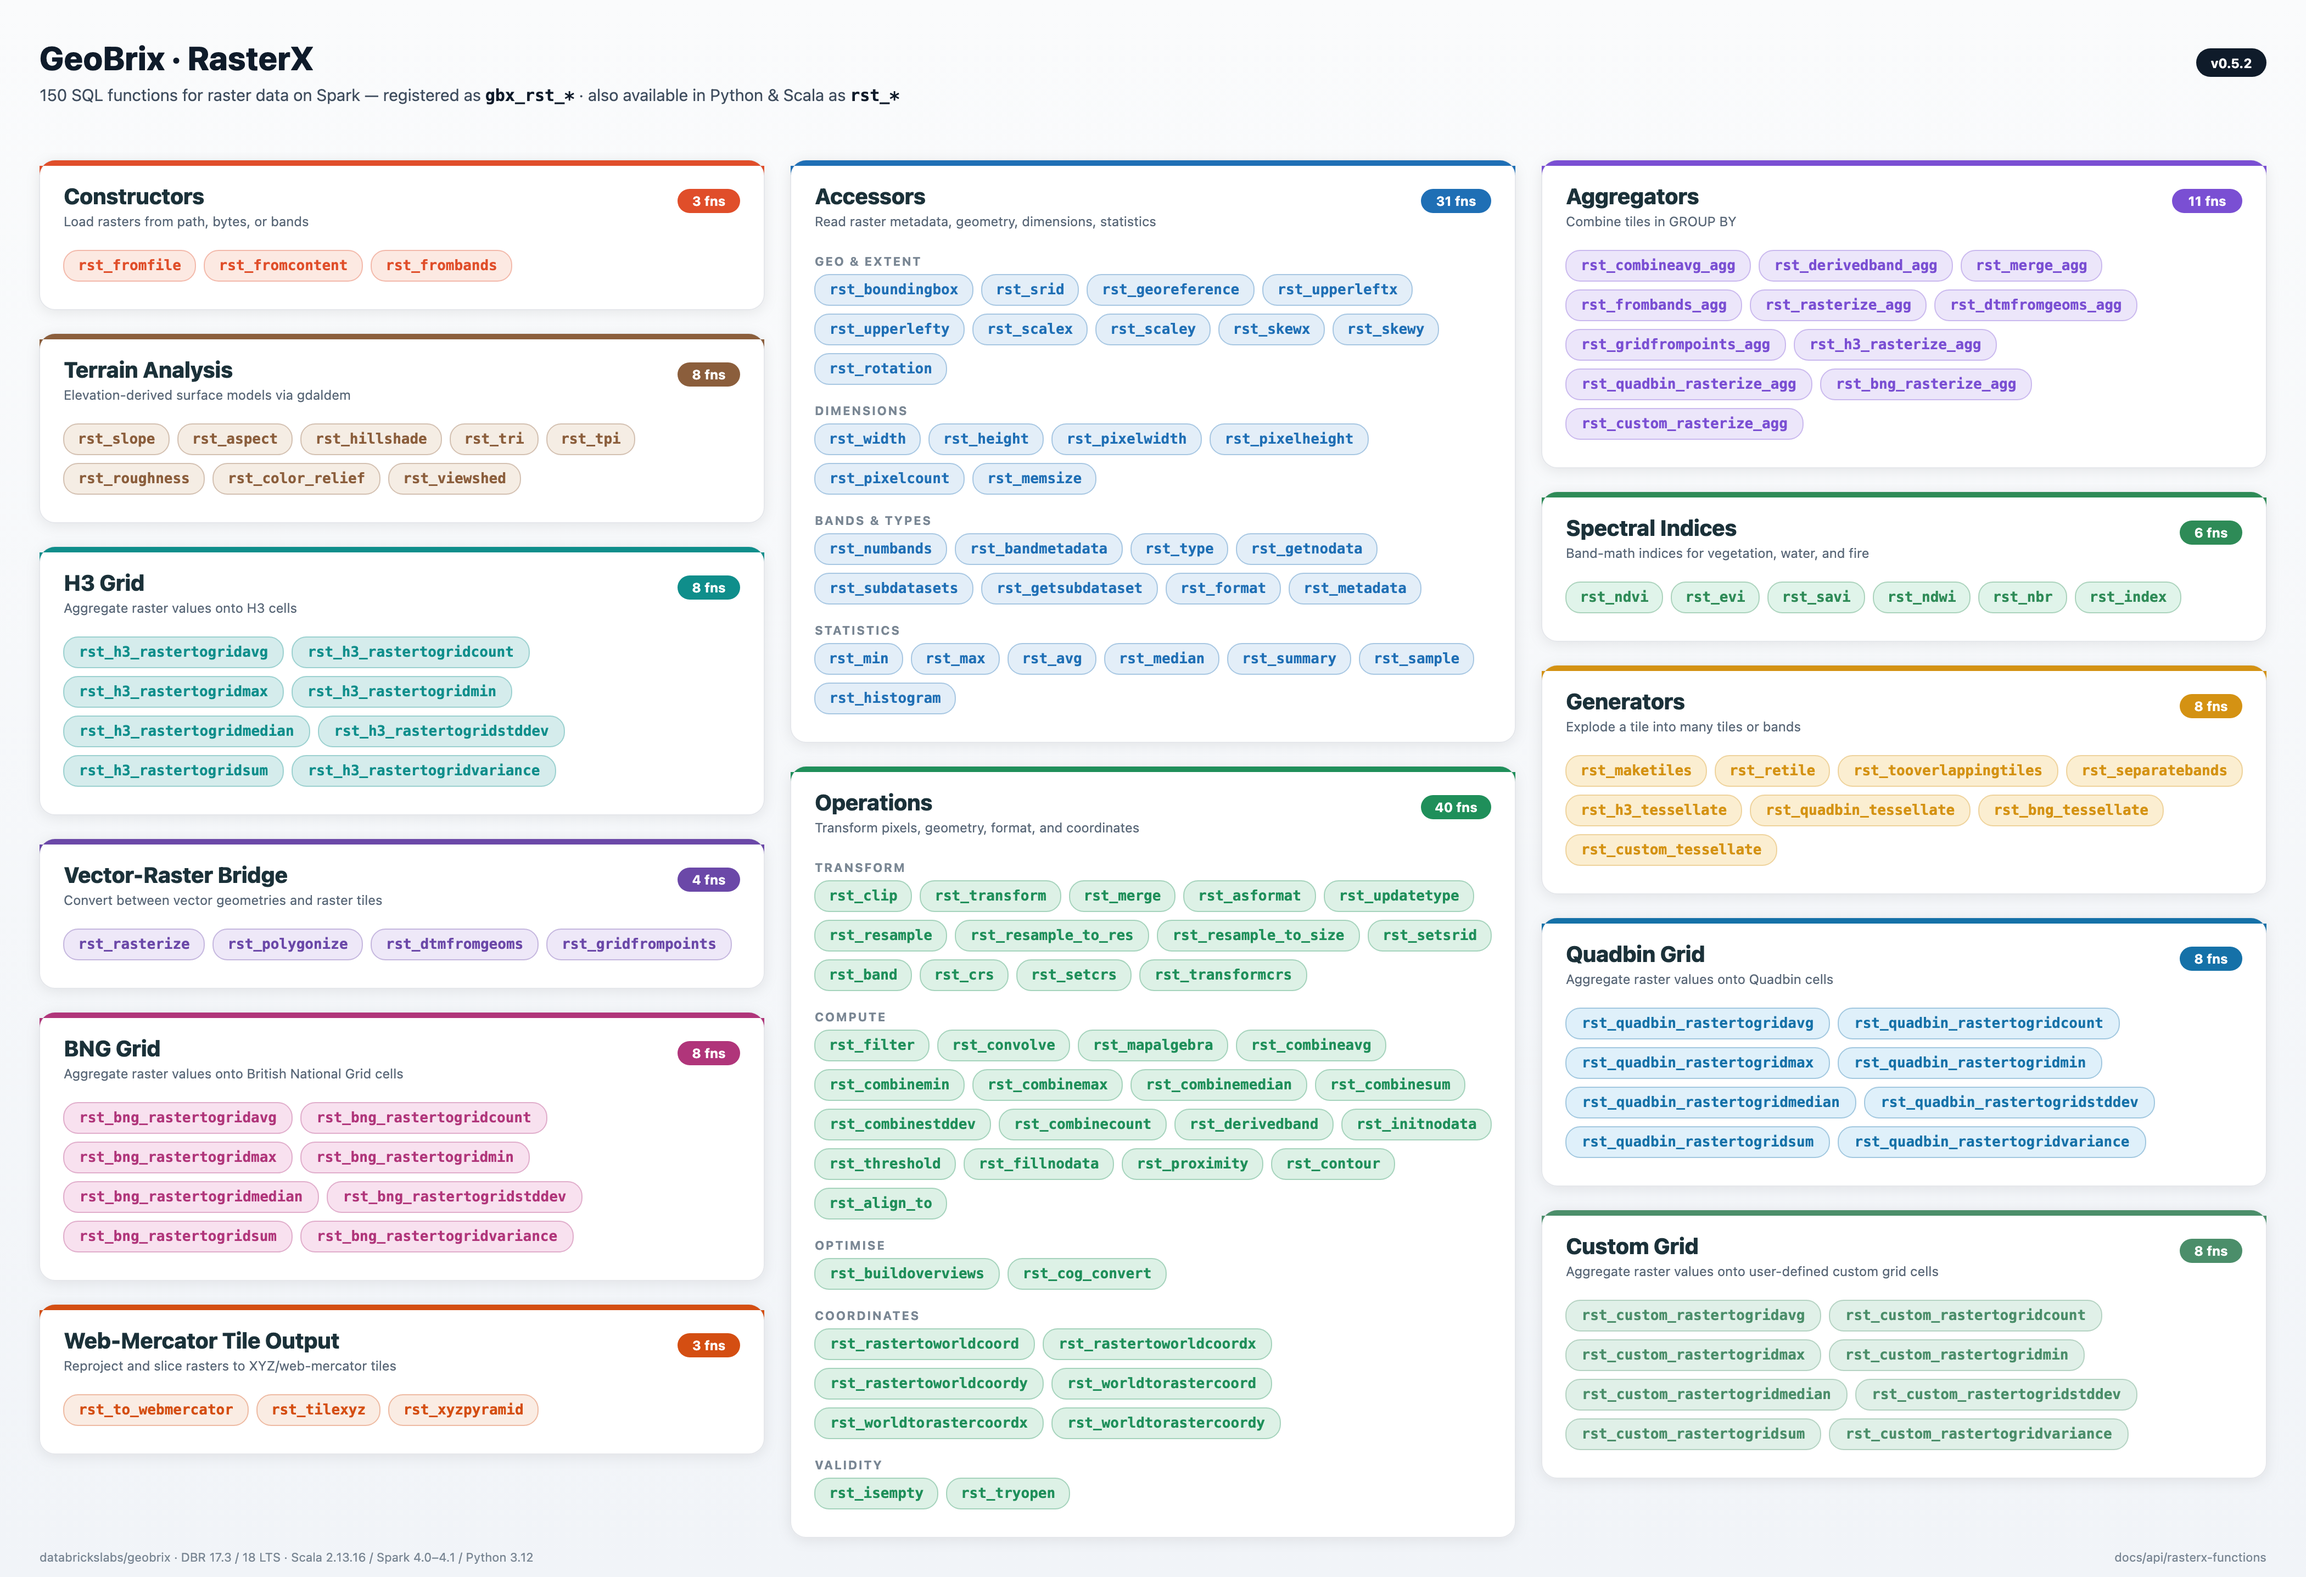
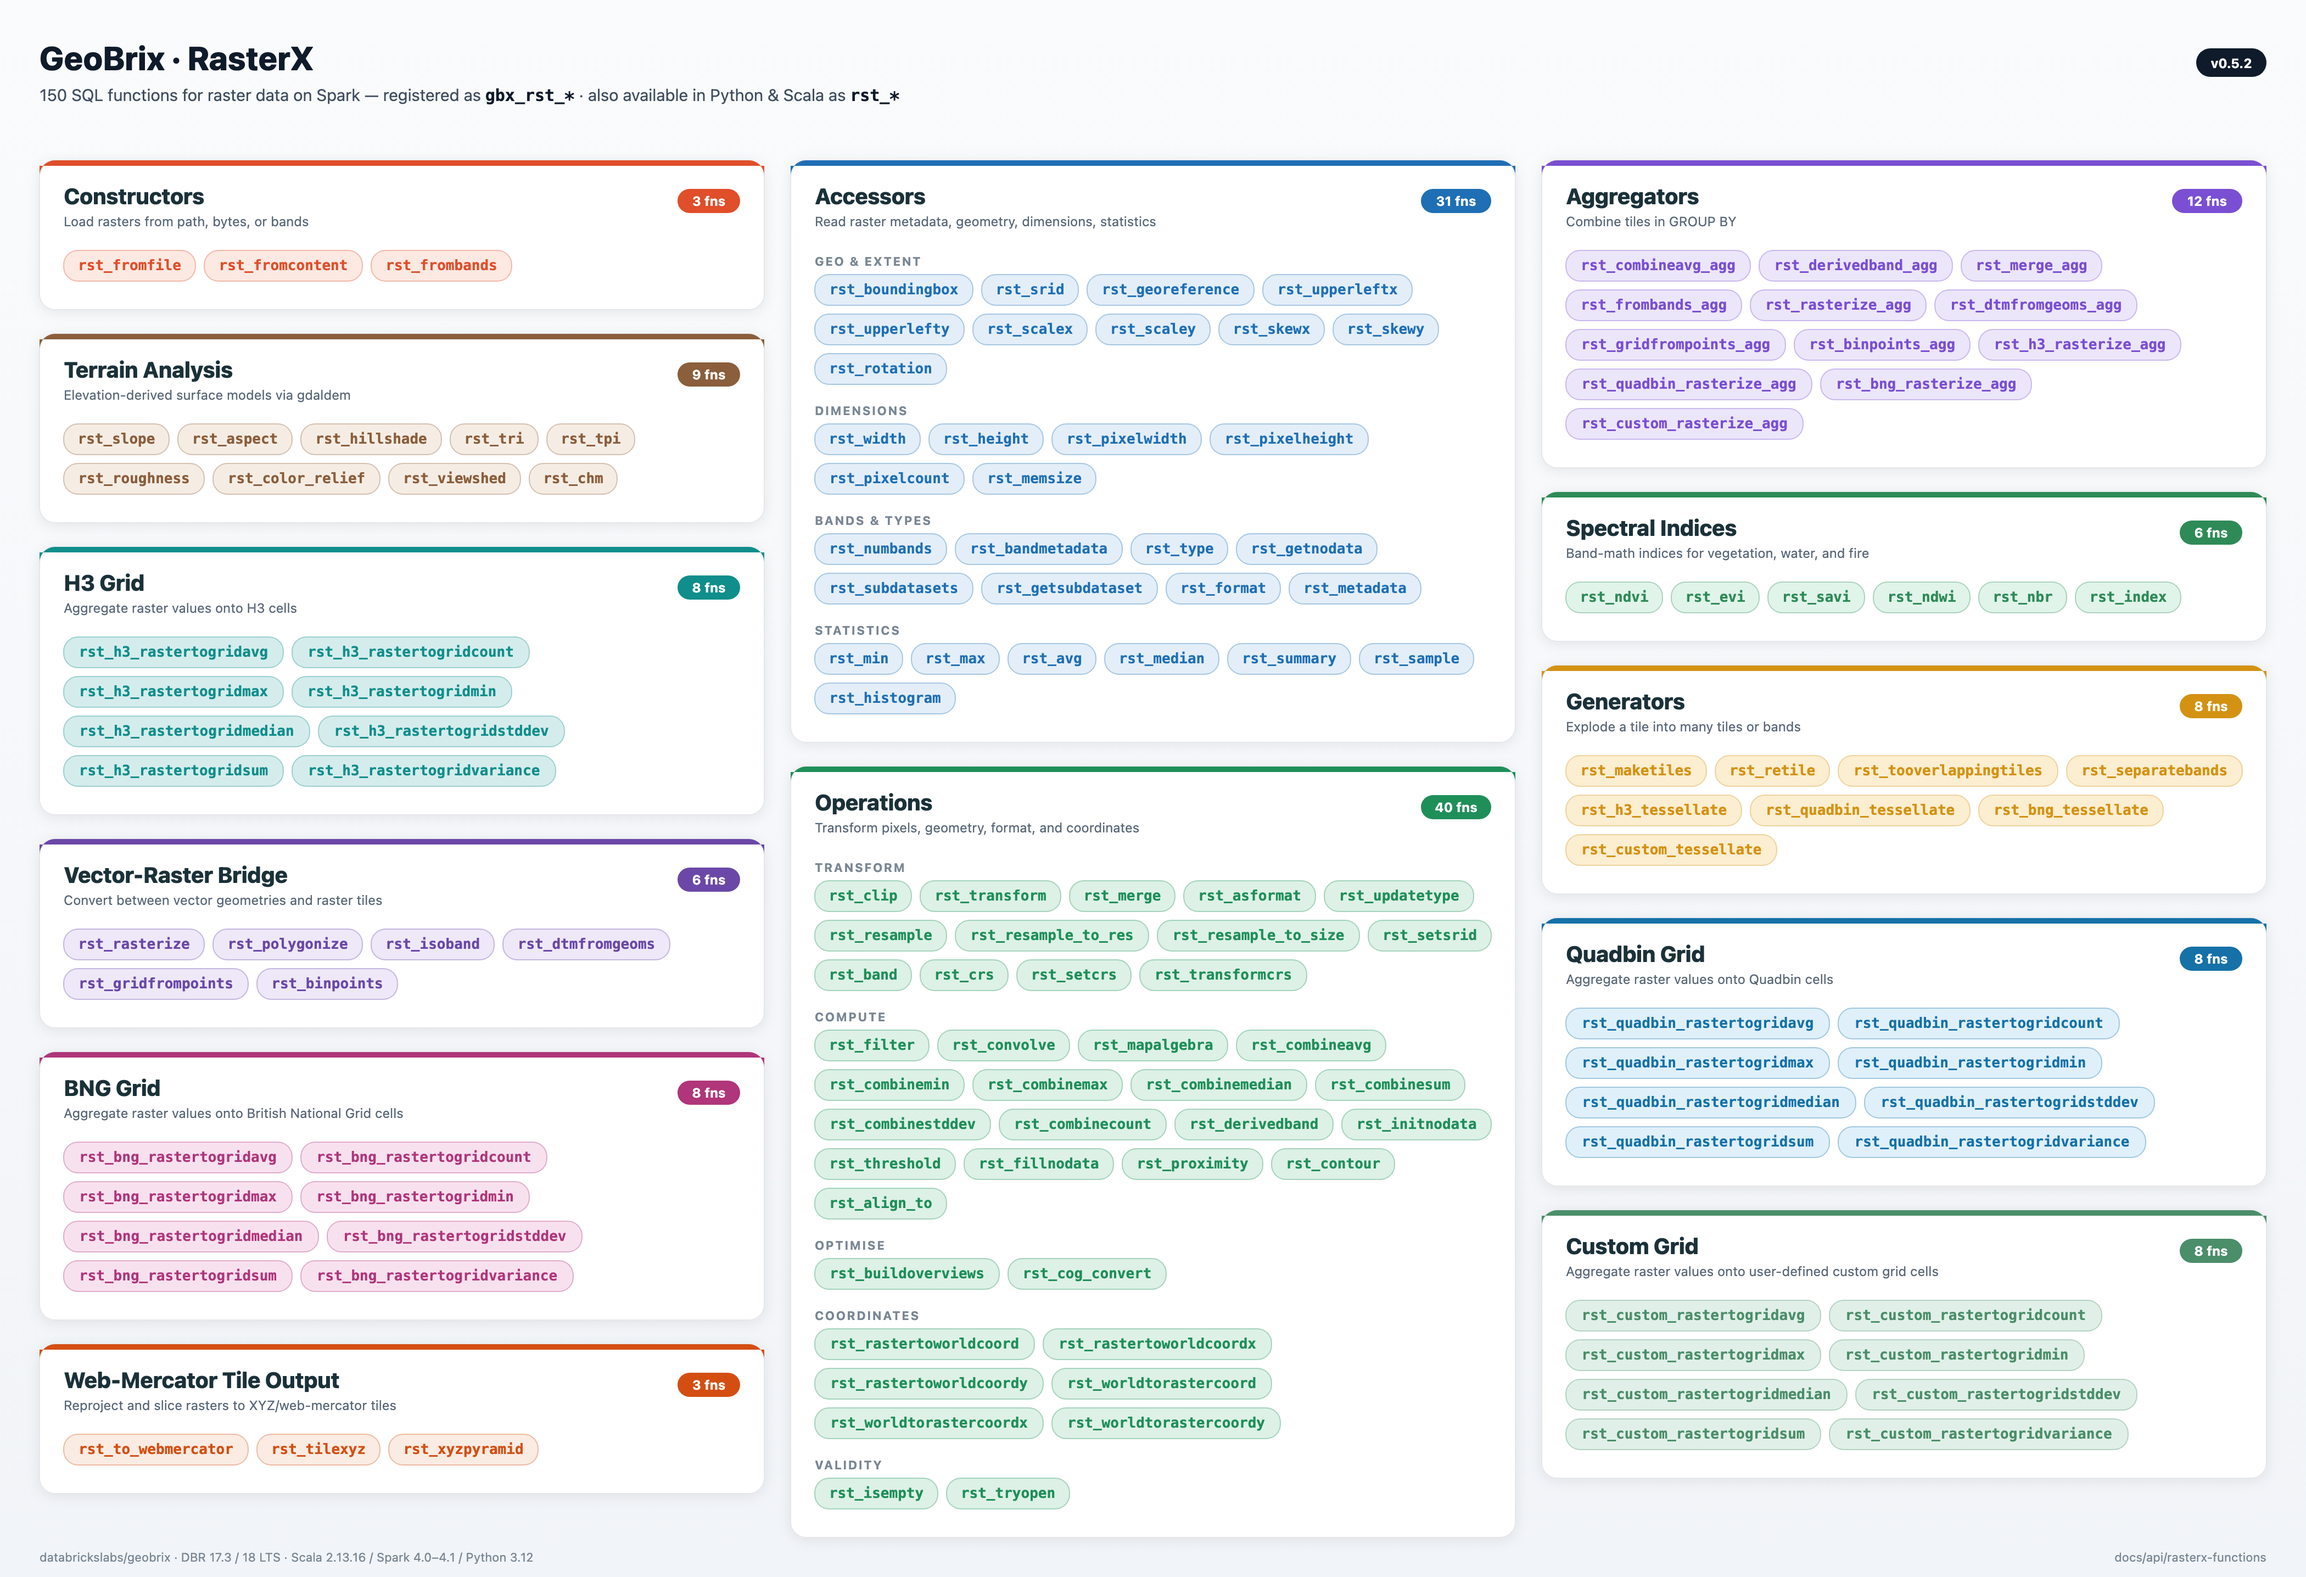
docs(rasterx): sync category diagram + isoband table for 0.5.2 fns
Add rst_binpoints, rst_binpoints_agg, rst_chm, rst_isoband to the RasterX function-categories diagram (generator + re-rendered portrait/landscape SVG+PNG) so it covers all 150 registered rst_ functions. Canonicalize the rst_isoband example-output ASCII table to its exact column width (D5).

Changed region(s): [[0.0312, 0.5888, 0.3431, 0.9297], [0.8421, 0.1859, 0.9669, 0.2479], [0.2183, 0.2789, 0.2807, 0.3099]]

diff --git a/resources/images/generators/rasterx-function-categories.py b/resources/images/generators/rasterx-function-categories.py
@@ -85,7 +85,7 @@ CARDS_LEFT = [
         fns=[
             "rst_combineavg_agg", "rst_derivedband_agg", "rst_merge_agg",
             "rst_frombands_agg", "rst_rasterize_agg",
-            "rst_dtmfromgeoms_agg", "rst_gridfrompoints_agg",
+            "rst_dtmfromgeoms_agg", "rst_gridfrompoints_agg", "rst_binpoints_agg",
             "rst_h3_rasterize_agg",
             "rst_quadbin_rasterize_agg", "rst_bng_rasterize_agg",
             "rst_custom_rasterize_agg",
@@ -98,7 +98,7 @@ CARDS_LEFT = [
         fns=[
             "rst_slope", "rst_aspect", "rst_hillshade",
             "rst_tri", "rst_tpi", "rst_roughness",
-            "rst_color_relief", "rst_viewshed",
+            "rst_color_relief", "rst_viewshed", "rst_chm",
         ],
     ),
     Card(
@@ -170,8 +170,8 @@ CARDS_RIGHT = [
         subtitle="Convert between vector geometries and raster tiles",
         color="#6B48A8", tint="#EEE8F8",
         fns=[
-            "rst_rasterize", "rst_polygonize",
-            "rst_dtmfromgeoms", "rst_gridfrompoints",
+            "rst_rasterize", "rst_polygonize", "rst_isoband",
+            "rst_dtmfromgeoms", "rst_gridfrompoints", "rst_binpoints",
         ],
     ),
     Card(

diff --git a/docs/tests/python/api/rasterx_functions_sql.py b/docs/tests/python/api/rasterx_functions_sql.py
@@ -3694,11 +3694,11 @@ FROM dem_rasters;
 
 
 rst_isoband_sql_example_output = """
-+-------------------------------------------------------------------+
-|patches                                                            |
-+-------------------------------------------------------------------+
-|[{[BINARY], 0, 0.0, 50.0}, {[BINARY], 1, 50.0, 100.0}, ...]        |
-+-------------------------------------------------------------------+
++-----------------------------------------------------------+
+|patches                                                    |
++-----------------------------------------------------------+
+|[{[BINARY], 0, 0.0, 50.0}, {[BINARY], 1, 50.0, 100.0}, ...]|
++-----------------------------------------------------------+
 (array of per-patch structs: geom_wkb WKB polygon, band index, lower/upper break values)
 """
 
